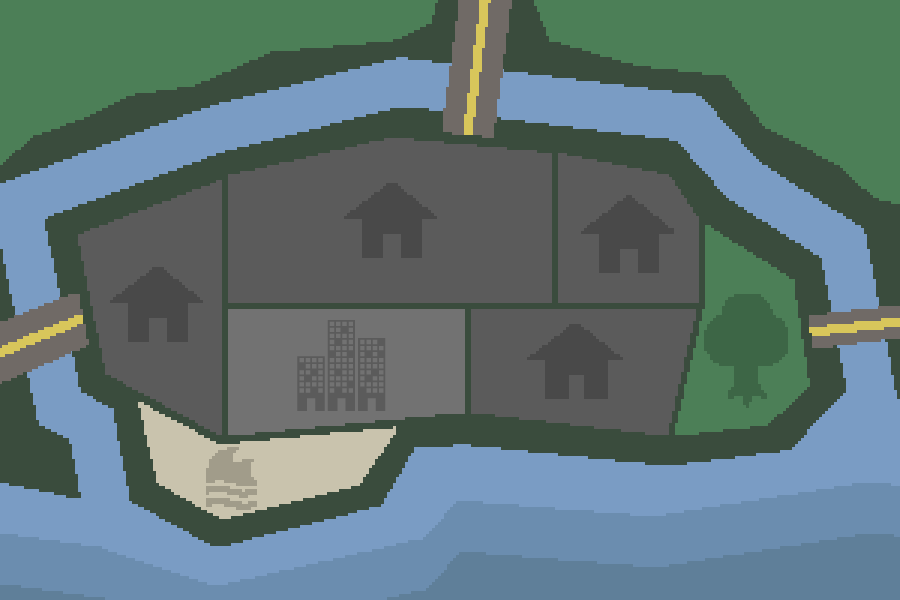
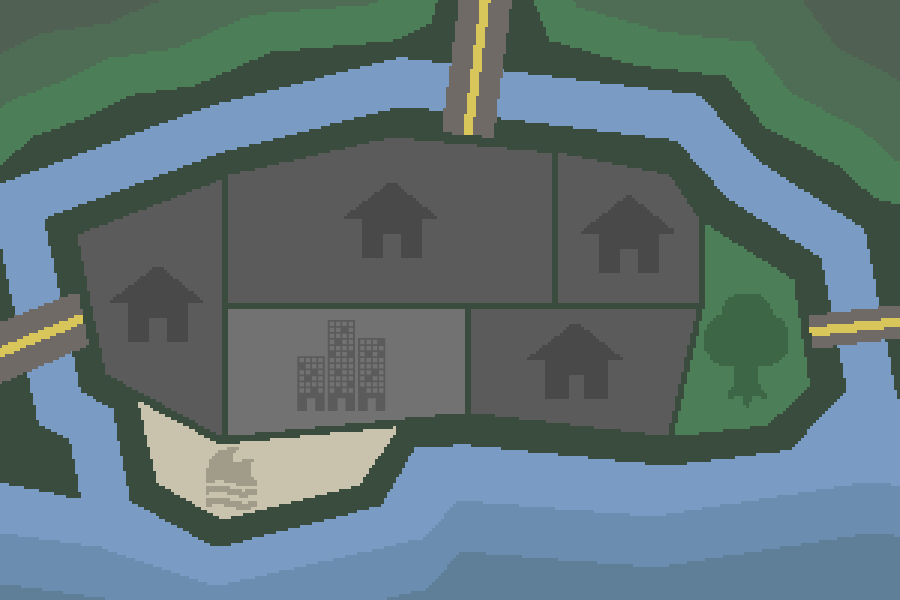
P1: Added movement
Truman can now move from one region of town to another with a mouse click
Updated map image
Converted variables into constants

Changed region(s): [[0.8711, 0.0, 1.0, 0.15], [0.0, 0.0, 0.1867, 0.09]]

diff --git a/projects/project1/js/script.js b/projects/project1/js/script.js
@@ -15,16 +15,25 @@ let images = {
 };
 
 let state = `simulation`; //  title, simulation, management, ending
-let workWindowSize = {
+const WORK_WINDOW_SIZE = {
   x: 1536,
   y: 754,
 };
+const TRAVEL_INCREMENT = 6;
 
 let ratings = [0, 25, 50, 75, 100];
 let funds = 500;
 let doubt = 0;
+
 let currentLocation;
 let targetLocation;
+let travelledDistance;
+let movable = true;
+
+let truman = {
+  x: 0,
+  y: 0,
+};
 
 function preload() {
   pixelFont = loadFont("assets/fonts/04B_03__.TTF");
@@ -38,6 +47,8 @@ function preload() {
 function setup() {
   createCanvas(windowWidth, windowHeight);
   currentLocation = mapData.locations[0];
+  truman.x = currentLocation.x;
+  truman.y = currentLocation.y;
 }
 
 function draw() {
@@ -189,27 +200,60 @@ function drawTruman() {
   imageMode(CENTER);
   image(
     images.marker,
-    width / 2 - dyn(currentLocation.x, `x`),
-    height / 2 - dyn(currentLocation.y, `y`)
+    width / 2 - dyn(truman.x, `x`),
+    height / 2 - dyn(truman.y, `y`)
   );
 }
 
+//  Moves the character from one region of town to another
 function moveTruman() {
+  movable = false;
   targetLocation = mapData.locations[random(currentLocation.destinations)];
-  currentLocation = targetLocation;
+
+  let travelX = dist(currentLocation.x, 0, targetLocation.x, 0);
+  let travelY = dist(0, currentLocation.y, 0, targetLocation.y);
+  travelledDistance = 0;
+
+  console.log(travelX + `, ` + travelY);
+
+  let travelTime = setInterval(() => {
+    if (travelledDistance < TRAVEL_INCREMENT) {
+      if (currentLocation.x < targetLocation.x) {
+        truman.x += travelX / TRAVEL_INCREMENT;
+      } else if (currentLocation.x > targetLocation.x) {
+        truman.x -= travelX / TRAVEL_INCREMENT;
+      }
+
+      if (currentLocation.y < targetLocation.y) {
+        truman.y += travelY / TRAVEL_INCREMENT;
+      } else if (currentLocation.y > targetLocation.y) {
+        truman.y -= travelY / TRAVEL_INCREMENT;
+      }
+
+      travelledDistance++;
+    } else if (travelledDistance === TRAVEL_INCREMENT) {
+      currentLocation = targetLocation;
+      truman.x = currentLocation.x;
+      truman.y = currentLocation.y;
+      movable = true;
+      clearInterval(travelTime);
+    }
+  }, 100);
 }
 
 function mousePressed() {
-  moveTruman();
+  if (movable) {
+    moveTruman();
+  }
 }
 
 //  Converts the inputted numbers so that they fit to any screen
 function dyn(number, axis) {
   let result;
   if (axis === `x`) {
-    result = (number / workWindowSize.x) * windowWidth;
+    result = (number / WORK_WINDOW_SIZE.x) * windowWidth;
   } else if (axis === `y`) {
-    result = (number / workWindowSize.y) * windowHeight;
+    result = (number / WORK_WINDOW_SIZE.y) * windowHeight;
   }
   return result;
 }
